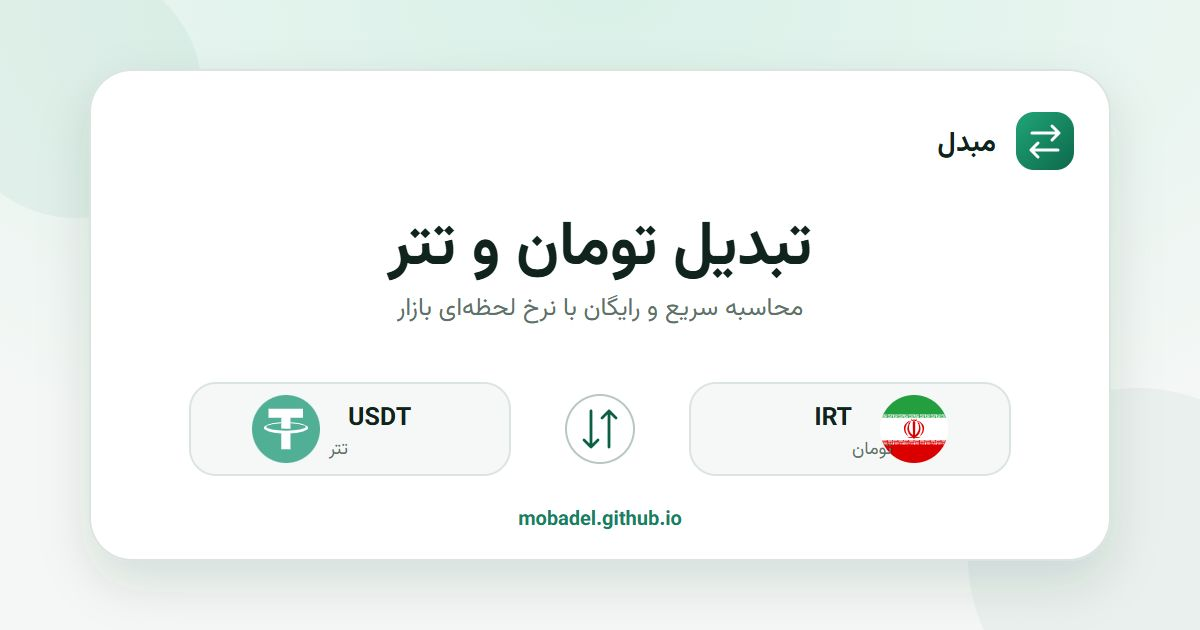
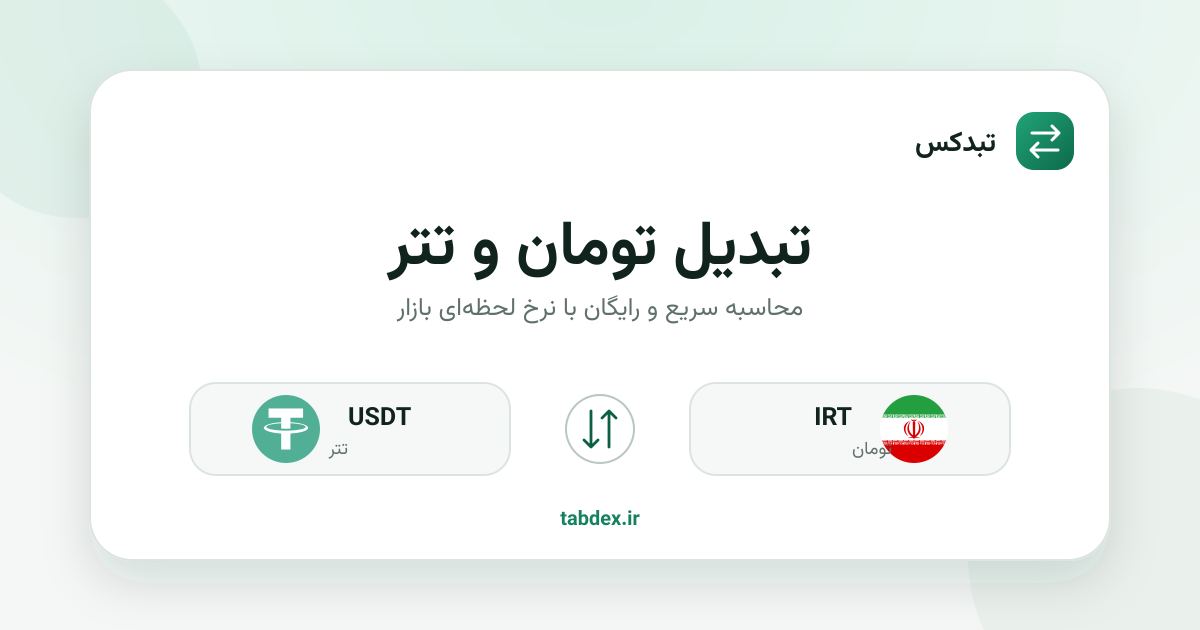
Rebrand site as Tabdex

diff --git a/index.html b/index.html
@@ -3,7 +3,7 @@
 <head>
   <meta charset="utf-8">
   <meta name="viewport" content="width=device-width, initial-scale=1, viewport-fit=cover">
-  <title>مبدل ارز دیجیتال و تومان | نرخ لحظهای نوبیتکس</title>
+  <title>تبدکس | مبدل ارز دیجیتال و تومان با نرخ لحظهای نوبیتکس</title>
   <meta name="description" content="تبدیل آنلاین ارزهای دیجیتال نوبیتکس به یکدیگر، تتر و تومان با نرخ لحظهای بازار؛ محاسبه سریع و رایگان.">
   <meta name="robots" content="index, follow, max-image-preview:large">
   <meta name="google-site-verification" content="Dl6E6PEcZ-Md1MTRwI6iz7vRyBD1Aug-2CciqDK7iEo">
@@ -12,20 +12,20 @@
 
   <meta property="og:locale" content="fa_IR">
   <meta property="og:type" content="website">
-  <meta property="og:site_name" content="مبدل">
-  <meta property="og:title" content="مبدل ارز دیجیتال و تومان">
+  <meta property="og:site_name" content="تبدکس">
+  <meta property="og:title" content="تبدکس | مبدل ارز دیجیتال و تومان">
   <meta property="og:description" content="تبدیل سریع ارزهای دیجیتال نوبیتکس به یکدیگر، تتر و تومان با نرخ لحظهای بازار.">
   <meta property="og:url" content="https://mobadel.github.io/">
   <meta property="og:image" content="https://mobadel.github.io/assets/og-cover.png">
   <meta property="og:image:width" content="1200">
   <meta property="og:image:height" content="630">
-  <meta property="og:image:alt" content="مبدل آنلاین تومان و تتر">
+  <meta property="og:image:alt" content="تبدکس؛ مبدل آنلاین ارز دیجیتال و تومان">
 
   <meta name="twitter:card" content="summary_large_image">
-  <meta name="twitter:title" content="مبدل ارز دیجیتال و تومان">
+  <meta name="twitter:title" content="تبدکس | مبدل ارز دیجیتال و تومان">
   <meta name="twitter:description" content="تبدیل سریع ارزهای دیجیتال نوبیتکس به یکدیگر، تتر و تومان با نرخ لحظهای بازار.">
   <meta name="twitter:image" content="https://mobadel.github.io/assets/og-cover.png">
-  <meta name="twitter:image:alt" content="مبدل آنلاین تومان و تتر">
+  <meta name="twitter:image:alt" content="تبدکس؛ مبدل آنلاین ارز دیجیتال و تومان">
 
   <link rel="icon" href="assets/favicon.svg" type="image/svg+xml">
   <link rel="preload" href="assets/fonts/Vazirmatn-Regular.woff2" as="font" type="font/woff2" crossorigin>
@@ -40,14 +40,14 @@
         "@type": "WebSite",
         "@id": "https://mobadel.github.io/#website",
         "url": "https://mobadel.github.io/",
-        "name": "مبدل",
+        "name": "تبدکس",
         "inLanguage": "fa-IR"
       },
       {
         "@type": "WebApplication",
         "@id": "https://mobadel.github.io/#application",
         "url": "https://mobadel.github.io/",
-        "name": "مبدل ارز دیجیتال و تومان",
+        "name": "تبدکس؛ مبدل ارز دیجیتال و تومان",
         "description": "ابزار رایگان تبدیل ارزهای دیجیتال نوبیتکس به یکدیگر، تتر و تومان با نرخ بازار نوبیتکس.",
         "applicationCategory": "FinanceApplication",
         "operatingSystem": "Any",
@@ -69,11 +69,11 @@
 
   <header class="site-header">
     <div class="shell header-inner">
-      <a class="brand" href="/" aria-label="صفحه اصلی مبدل">
+      <a class="brand" href="/" aria-label="صفحه اصلی تبدکس">
         <span class="brand-mark" aria-hidden="true">
           <svg viewBox="0 0 24 24"><path d="M7 7h11m0 0-3-3m3 3-3 3M17 17H6m0 0 3 3m-3-3 3-3"/></svg>
         </span>
-        <span>مبدل</span>
+        <span>تبدکس</span>
       </a>
 
       <button class="refresh-button" id="refresh" type="button" aria-label="بهروزرسانی نرخ" title="بهروزرسانی نرخ">

diff --git a/README.md b/README.md
@@ -1,6 +1,6 @@
-# مبدل تتر و تومان
+# تبدکس
 
-یک مبدل سبک و فارسی برای تبدیل دوطرفهٔ **تتر (USDT)** و **تومان (IRT)** روی GitHub Pages.
+تبدکس یک مبدل سبک و فارسی برای تبدیل داراییهای دیجیتال و **تومان (IRT)** با نرخ بازار نوبیتکس روی GitHub Pages است.
 
 ## منبع نرخ
 
